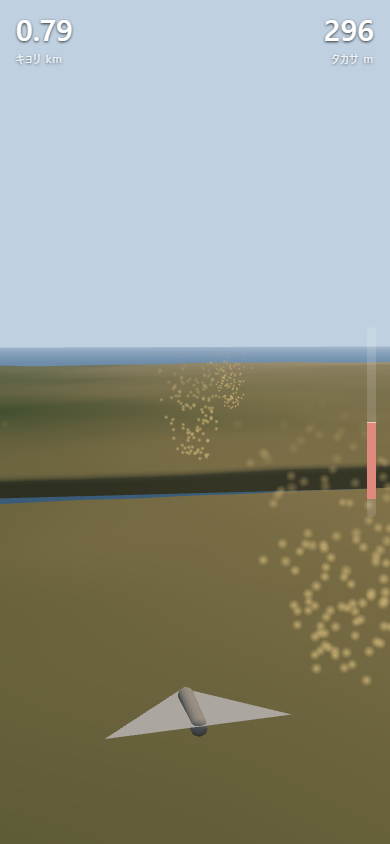
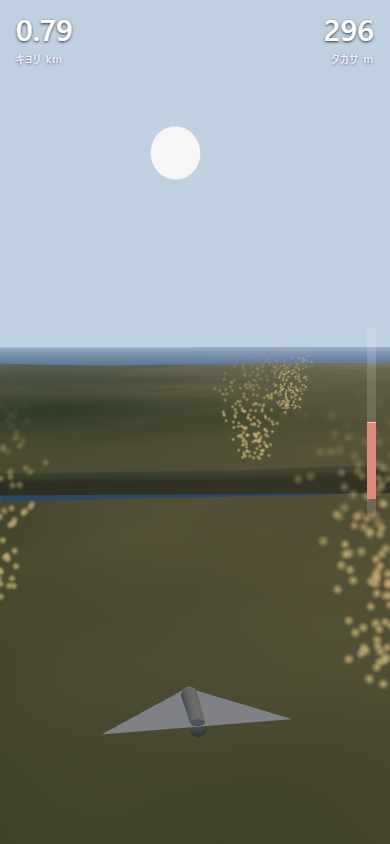
遊んでの指摘3件を測って、2件を直した
測定(tools/diagnose.mjs を追加):
- 押してから90度曲がるまで3.2秒
- カメラが機体の向きに固定されていて、画面の中で機体が振れる量が0度だった
- 上昇気流の手がかりが画面の3.7%しか占めていない
- 1走行9.9分のうち、連続74秒なにもすることがない

直したこと:
- カメラを機体の向きから0.75秒遅らせた。旋回中、機体が画面の中で20.6度振れる(鼻先443px)
- 夕日を +Y の空に置いた。方位の手がかりと残り時間を1つの物にまとめる
- 土ぼこりを増量し、強い柱の頭に雲を出した
- 地表に細かい濃淡を入れた(速度と向きが読めるように)

74秒の空き時間は未着手。方向を決めてから。

diff --git a/src/scene.js b/src/scene.js
@@ -38,6 +38,8 @@ class Ground {
       this.pos[k] = x; this.pos[k + 1] = z; this.pos[k + 2] = y;
       const m = t.moisture(x, y);
       c.copy(dry).lerp(wet, m);
+      const grain = 0.86 + 0.28 * t.grain(x, y);   // 近景の手がかり(速度と向きが読める)
+      c.multiplyScalar(grain);
       if (z < t.water + 1.2) c.lerp(sand, 0.7);
       this.col[k] = c.r; this.col[k + 1] = c.g; this.col[k + 2] = c.b;
     }
@@ -56,7 +58,7 @@ const DUST_VERT = [
   '  float dist = -(modelViewMatrix * vec4(position, 1.0)).z;',
   '  vA = aAlpha * clamp((dist - 30.0) / 150.0, 0.0, 1.0);',   // 近すぎる粒は消す(視界を塞ぐ)
   '  vec4 mv = modelViewMatrix * vec4(position, 1.0);',
-  '  gl_PointSize = clamp(uSize * (900.0 / max(-mv.z, 1.0)), 2.0, 26.0);',
+  '  gl_PointSize = clamp(uSize * (900.0 / max(-mv.z, 1.0)), 3.0, 30.0);',
   '  gl_Position = projectionMatrix * mv;',
   '}',
 ].join('\n');
@@ -75,7 +77,7 @@ const DUST_FRAG = [
 
 // 上昇気流は「舞い上がる土ぼこりの柱」としてだけ見せる。数字も矢印も出さない。
 class Dust {
-  constructor(field, max = 4200) {
+  constructor(field, max = 7000) {
     this.f = field; this.max = max;
     const g = new THREE.BufferGeometry();
     this.pos = new Float32Array(max * 3);
@@ -124,6 +126,49 @@ class Dust {
   }
 }
 
+// 上昇気流の頭にできる雲。土ぼこりは近くでしか見えないので、遠距離の手がかりはこちら。
+class Clouds {
+  constructor(field, max = 900) {
+    this.f = field; this.max = max;
+    const g = new THREE.BufferGeometry();
+    this.pos = new Float32Array(max * 3);
+    this.alpha = new Float32Array(max);
+    g.setAttribute('position', new THREE.BufferAttribute(this.pos, 3));
+    g.setAttribute('aAlpha', new THREE.BufferAttribute(this.alpha, 1));
+    this.geo = g;
+    this.mat = new THREE.ShaderMaterial({
+      uniforms: { uSize: { value: 150.0 }, uColor: { value: new THREE.Color(0xffffff) }, uFade: { value: 1 } },
+      vertexShader: DUST_VERT, fragmentShader: DUST_FRAG,
+      transparent: true, depthWrite: false,
+    });
+    this.points = new THREE.Points(g, this.mat);
+    this.points.frustumCulled = false;
+    this.seeds = [];
+  }
+  update(px, py, sun) {
+    let n = 0;
+    const per = 7;
+    for (const c of this.f.around(px, py, 9000)) {
+      if (c.W < 7.0) continue;                         // 強い柱にだけ雲がつく = 強さが遠くから読める
+      if (n + per > this.max) break;
+      for (let i = 0; i < per; i++, n++) {
+        let s = this.seeds[n];
+        if (!s || s.c !== c) s = this.seeds[n] = { c, a: Math.random() * 6.28, r: Math.random(), h: Math.random() };
+        const rad = c.R * (0.25 + 0.85 * s.r);
+        const k = n * 3;
+        this.pos[k] = c.x + Math.cos(s.a) * rad;
+        this.pos[k + 1] = c.top + 40 + s.h * 55;
+        this.pos[k + 2] = c.y + Math.sin(s.a) * rad;
+        this.alpha[n] = 0.75 * Math.min(1, (c.W - 6.5) / 2.5);
+      }
+    }
+    for (; n < this.max; n++) { this.alpha[n] = 0; this.pos[n * 3 + 1] = -9999; }
+    this.geo.attributes.position.needsUpdate = true;
+    this.geo.attributes.aAlpha.needsUpdate = true;
+    this.mat.uniforms.uFade.value = 0.3 + 0.7 * sun;
+  }
+}
+
 function makeGlider() {
   const g = new THREE.Group();
   const mat = new THREE.MeshLambertMaterial({ color: 0xd8d2c4, side: THREE.DoubleSide });
@@ -144,6 +189,7 @@ function makeGlider() {
 
 export class View {
   constructor(el, terrain, field) {
+    this.THREE = THREE;   // 検査用
     this.renderer = new THREE.WebGLRenderer({ antialias: true, powerPreference: 'high-performance' });
     this.renderer.setPixelRatio(Math.min(devicePixelRatio, 2));
     el.appendChild(this.renderer.domElement);
@@ -160,12 +206,19 @@ export class View {
     water.rotation.x = -Math.PI / 2; water.position.y = terrain.water + 0.6;
     water.frustumCulled = false;
     this.scene.add(water); this.water = water;
+    // 夕日。+Y(スコアが伸びる向き)の空に固定で置く。方位の手がかりと残り時間を兼ねる
+    this.sunDisc = new THREE.Mesh(new THREE.CircleGeometry(1, 40),
+      new THREE.MeshBasicMaterial({ color: 0xfff0cc, fog: false, transparent: true, depthWrite: false }));
+    this.sunDisc.renderOrder = -1;
+    this.scene.add(this.sunDisc);
     this.dust = new Dust(field);
-    this.scene.add(this.dust.points);
+    this.clouds = new Clouds(field);
+    this.scene.add(this.dust.points, this.clouds.points);
     this.glider = makeGlider();
     this.scene.add(this.glider);
     this.fog = new THREE.FogExp2(0xbfd0e0, 0.000075);
     this.scene.fog = this.fog;
+    this.camHead = null;      // 機体の向きに遅れて追従する。旋回を「見える」ようにするため
     this.resize();
     addEventListener('resize', () => this.resize());
   }
@@ -180,6 +233,7 @@ export class View {
     this.near.update(g.x, g.y);
     this.water.position.x = g.x; this.water.position.z = g.y;
     this.dust.update(g.x, g.y, dt, sun);
+    this.clouds.update(g.x, g.y, sun);
     this.glider.position.set(g.x, g.z, g.y);
     this.glider.rotation.set(0, -g.head, -g.bank * 1.25, 'YXZ');
     // 夕暮れ。時計ではなく空の色で残り時間が分かる
@@ -189,10 +243,25 @@ export class View {
       : dusk.clone().lerp(night, (0.35 - sun) / 0.35);
     this.scene.background = sky; this.fog.color = sky;
     this.sunLight.intensity = 0.35 + 1.25 * sun;
+    // 太陽は +Y の方角、高度は日照とともに下がる
+    const elev = (2.5 + 11 * sun) * Math.PI / 180, D = 9000;
+    const sx = g.x, sy = g.z + Math.sin(elev) * D + 60, sz = g.y + Math.cos(elev) * D;
+    this.sunDisc.position.set(sx, sy, sz);
+    this.sunDisc.scale.setScalar(300 + 260 * (1 - sun));
+    this.sunDisc.lookAt(this.camera.position);
+    this.sunDisc.material.color.setHSL(0.11, 0.55 * (1 - sun) + 0.08, 0.92 - 0.12 * (1 - sun));
+    this.sunLight.position.set(0, Math.sin(elev), Math.cos(elev));
     const tall = Math.max(0, 1 - this.camera.aspect);      // 縦持ちほど大きい
     const back = 78, up = 38 + 14 * tall;
-    this.camera.position.set(g.x - Math.sin(g.head) * back, g.z + up, g.y - Math.cos(g.head) * back);
-    this.camera.lookAt(g.x + Math.sin(g.head) * 340, g.z - 34 + 46 * tall, g.y + Math.cos(g.head) * 340);
+    // カメラは機体の向きに遅れてついていく。遅れる分だけ、機体が画面の中で振れて見える
+    if (this.camHead === null) this.camHead = g.head;
+    let e = g.head - this.camHead;
+    while (e > Math.PI) e -= 2 * Math.PI;
+    while (e < -Math.PI) e += 2 * Math.PI;
+    this.camHead += e * (1 - Math.exp(-dt / 0.75));
+    const ch = this.camHead;
+    this.camera.position.set(g.x - Math.sin(ch) * back, g.z + up, g.y - Math.cos(ch) * back);
+    this.camera.lookAt(g.x + Math.sin(ch) * 340, g.z - 34 + 46 * tall, g.y + Math.cos(ch) * 340);
     this.camera.rotation.z += g.bank * 0.16;
     this.renderer.render(this.scene, this.camera);
   }

diff --git a/src/main.js b/src/main.js
@@ -38,6 +38,7 @@ cv.addEventListener('pointerup', drop);
 cv.addEventListener('pointercancel', drop);
 
 function input(dt) {
+  if (window.__slice && typeof window.__slice.forceInput === 'number') return window.__slice.forceInput;
   if (auto) return auto.input(glider, dt);
   let v = 0;
   if (keys.has('ArrowLeft') || keys.has('a') || keys.has('A')) v -= 1;
@@ -120,7 +121,7 @@ window.__slice = {
     return {
       x: glider.x, y: glider.y, z: glider.z, agl: glider.agl, vz: glider.vz,
       dist: glider.best, time: glider.time, sun: sunlight(glider.time),
-      bank: glider.bank, alive: glider.alive, ended,
+      bank: glider.bank, head: glider.head, alive: glider.alive, ended,
       thermalsNear: field.nearby(glider.x, glider.y, 4000).length,
     };
   },
@@ -134,6 +135,9 @@ window.__slice = {
     return out.sort((a, b) => a.d - b.d).slice(0, 12);
   },
   render() { view.update(glider, STEP, sunlight(glider.time)); hud(); },
+  forceInput: null,
+  _view() { return { glider: view.glider, camera: view.camera, THREE: view.THREE,
+                     camHead: view.camHead, dust: view.dust.points, clouds: view.clouds.points }; },
   reset,
 };
 

diff --git a/src/world.js b/src/world.js
@@ -40,6 +40,8 @@ export class Terrain {
     for (const [dx, dy] of [[e, 0], [-e, 0], [0, e], [0, -e]]) m = Math.max(m, Math.abs(this.height(x + dx, y + dy) - z));
     return m / e;
   }
+  // 地表の細かい濃淡。動いていることが分かるための模様で、飛行には影響しない
+  grain(x, y) { return fbm(x / 230, y / 230, this.seed + 907, 2); }
   // 湿っているほど植生が濃く、地面が暖まらない = 上昇風が立たない
   moisture(x, y) {
     const d = Math.abs(x - this.riverX(y));
